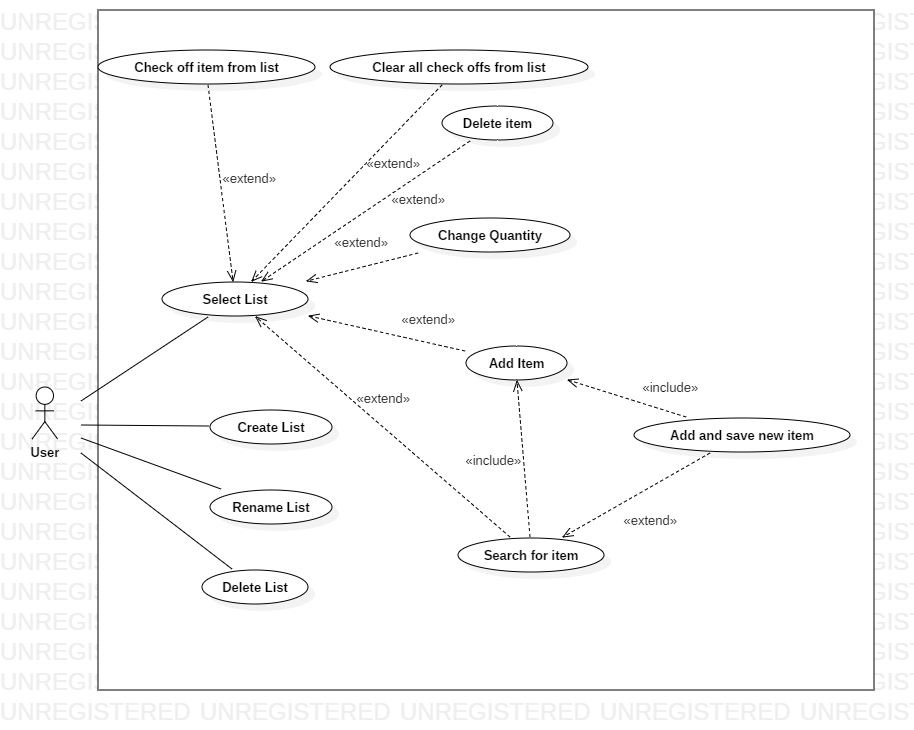
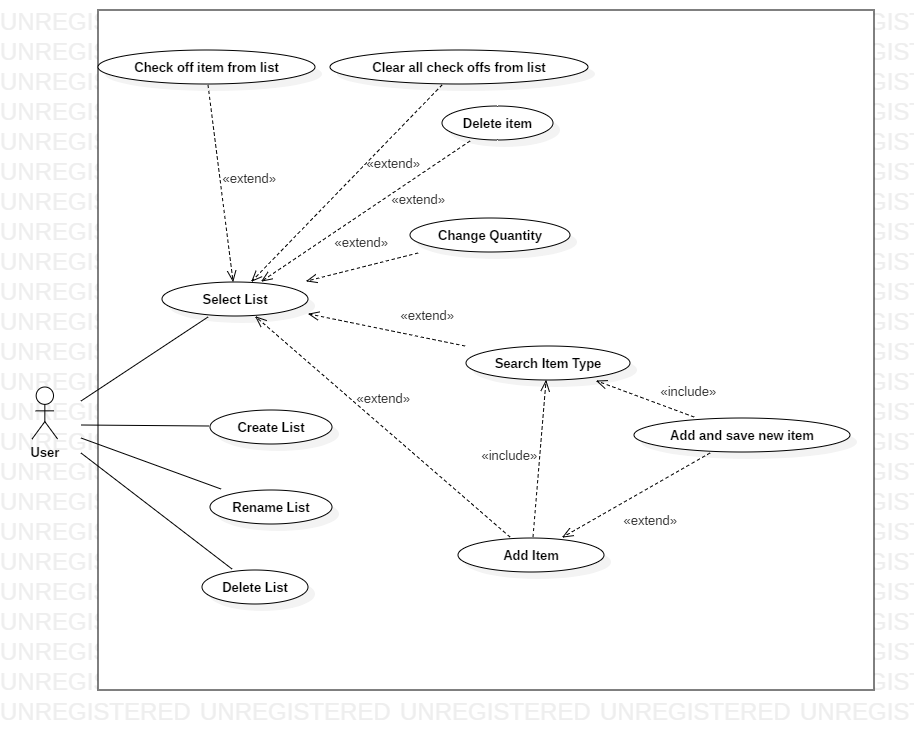
Updated documents

diff --git a/GroupProject/Docs/UseCaseModel.md b/GroupProject/Docs/UseCaseModel.md
@@ -24,9 +24,9 @@ Create List
 - Pre-conditions: n/a
 - Post-conditions: User has the option of using the newly created list. The newly created list will be saved.
 - Scenarios:
-	1. User selects option "Create New List".
+	1. User selects option "Add".
 	2. User enters a name for the list.
-	3. User clicks "Create List".
+	3. User clicks "ADD".
 	4. The system saves the list to the database.
 - Alternative Scenarios:
 	- 2a. User does not enter a name. The list is not created and a prompt appears to enter a name for the list.
@@ -39,30 +39,32 @@ Rename List
 - Pre-conditions: The list must already exist and should be found under "Select List".
 - Post-conditions: The list will be renamed and saved.
 - Scenarios:
-	1. User chooses option "Rename List"
-	2. The system opens a list of existing lists.
-	3. User selects a list.
+	1. User selects a list.
+	2. User chooses option "Rename".
+	3. The system opens a screen for the user to enter a new name for the list.
 	4. User enters a name for the list.
 	5. The system renames the list and saves the change.
 - Alternative Scenarios:
 	- 4a. User does not enter a name. The list's name is not changed and a prompt appears to enter a name for the list.
 - Exception:
-	- 2a. There are no existing lists. A warning appears saying there are no existing lists. The use case ends.
-	- 3a. User exits "Rename List". The use case ends.
+	- 2a. There are no existing lists or no list is selected. A prompt appears saying there are no lists selected. The use case ends.
+	- 2b. There are multiple lists selected. A prompt appears saying "Only one list can be selected for renaming". The use case ends.
+	- 4a. User exits "Rename List". The use case ends.
 
 Delete List
 
-- Requirements: User can delete an existing list.
-- Pre-conditions: The list must already exist and be saved.
-- Post-conditions: The list is removed from the database.
+- Requirements: User can delete existing list(s).
+- Pre-conditions: The list(s) must already exist and be saved.
+- Post-conditions: The list(s) are removed from the database.
 - Scenarios:
-	1. User chooses option "Delete List"
-	2. The system opens a list of existing lists.
-	3. User selects a list.
-	4. The system removes the selected list.
+	1. User selects list(s).
+	2. User chooses option "Delete"
+	3. The system opens a prompt for the user to confirm the deletion.
+	4. The user selects "Yes".
+	5. The system removes the selected list(s).
 - Exception:
-	- 2a. There are no existing lists. A warning appears saying there are no existing lists. The use case ends.
-	- 3a. User exits "Delete List". The use case ends.
+	- 2a. There are no existing lists or no list(s) are selected. A prompt appears saying "Select one or more lists for deletion". The use case ends.
+	- 4a. User selects "No". The list(s) are not deleted. The use case ends.
 
 Check off item from list
 
@@ -76,10 +78,10 @@ Check off item from list
 Clear all check offs from list
 
 - Requirements: User can clear all checks from a list(unchecked).
-- Pre-conditions: The list is selected. The list has at least one item checked off.
+- Pre-conditions: The list is selected. The list has all items checked off.
 - Post-conditions: The list has no checked off items.
 - Scenarios:
-	1. User chooses option "Clear all check offs from list".
+	1. User checks the topmost checkbox.
 	2. The system resets the checks for all items on the list.
 - Alternative Scenarios:
 	- 2a. There are no items on the list.
@@ -87,31 +89,35 @@ Clear all check offs from list
 
 Delete item
 
-- Requirements: User removes an item from a list.
-- Pre-conditions: User has selected a list. The list has the selected item.
-- Post-conditions: The list will no longer have the item.
+- Requirements: User removes item(s) from a list.
+- Pre-conditions: User has selected a list. The list has the selected item(s).
+- Post-conditions: The list will no longer have the item(s).
 - Scenarios:
-	1. User chooses "Delete item" for an item on a list.
-	2. The system removes the item from the list and saves the change.
+	1. User checks off item(s) on the list.
+	1. User chooses "Delete".
+	2. The system removes the item(s) from the list and saves the change.
 
-Add item
+Search Item Type
 
 - Requirements: User adds an item to the list.
-- Pre-conditions: The item added was not previously there.
+- Pre-conditions: The user has selected a grocery list.
 - Post-conditions: The item and quantity are added to the list.
 - Scenarios:
-	1. User chooses option "Add item".
-	2. The system presents a list of items in the database by itemtype.
-	3. User selects an item from the list to add.
-	4. The system prompts the user for a quantity.
-	5. User enters a valid quantity.
-	6. The system saves the item and quantity to the list.
+	1. User chooses option "Search Item Type".
+	2. The system presents a list of Item Types.
+	3. User selects an item type from the list.
+	4. The system presents a list of items with the given item type.
+	5. The user selects an item from the list.
+	6. The system prompts the user for a quantity.
+	7. User enters a valid quantity.
+	8. The system saves the item and quantity to the list.
 - Alternative Scenario:
-	- 3a. The item already exists in the list. The system prompts the user to select a new item.
-	- 5a. User enters an invalid quantity. The system prompts the user to enter a valid quantity.
+	- 7a. The item already exists in the list. The system adds the entered quantity to the quantity of the item in the list.
+	- 7b. User enters an invalid quantity. The system prompts the user to enter a valid quantity.
 - Exception:
-	- 3b. User exits "Add Item". The use case ends.
-	- 5b. User exits "Add Item". The selected item is not added to the list. The use case ends.
+	- 3b. User exits "Search Item Type". The use case ends.
+	- 5b. User exits "Search Item Type". The use case ends.
+	- 7b. User exits "Search Item Type". The selected item is not added to the list. The use case ends.
 
 Change Quantity
 
@@ -119,27 +125,28 @@ Change Quantity
 - Pre-conditions: User has selected a list. Item must exist in the list.
 - Post-conditions: The list item will be updated with its quantity and saved.
 - Scenarios:
-	1. User selects "Change Quantity" for an item on the list.
+	1. User selects an item on the list.
 	2. The system prompts the user for a quantity.
 	3. User enters a valid quantity.
-	4. The system changes the quantity for the list item and saves the change.
+	4. The system changes the quantity for the item on the list and saves the change.
 - Alternative Scenario:
 	- 3a. User enters an invalid quantity. The system prompts the user to enter a valid quantity.
 - Exception:
 	- 3b. User exits "Change Quantity". The quantity is unchanged. The use case ends.
 
-Search for Item
+Add Item
 
 - Requirements: User searches for an item to add to list.
-- Pre-conditions: Item does not exist in the current list.
+- Pre-conditions: User has selected a list.
 - Post-conditions: A new item is added to the list with its quantity specified and saved.
 - Scenarios:
-	1. User chooses option "Search for item".
+	1. User chooses option "Add Item".
 	2. User inputs a valid value to search.
-	3. The system searches the existing database of items to match the search term and item names .
+	3. The system searches the existing database of items to match the search term to item names .
 	4. The system presents a list of items with matching names. (Partial and full)
 	5. User selects an item from the given list to add.
-	6. See (Add Item).
+	6. User inputs a quantity for the item.
+	7. The system saves the item and quantity to the list and saves the change.
 - Alternative Scenario:
 	- 2a. User enters an invalid term. The system prompts the user to enter a valid term.
 	- 4a. The system does not find any matching items. The system prompts the user to add a new item to the database. See (Add and save new item).
@@ -154,12 +161,11 @@ Add and save new item
 - Post-conditions: The item is added to the database. The item with its quantity is added to the list and saved.
 - Scenarios:
 	1. The system prompts the user to add a new item to the database.
-	2. User selects an existing item type and enters a valid item name.
+	2. User selects an existing item type, enters a valid item name, and enters a valid quantity.
 	3. The system adds the item with its item type to the database.
-	4. The system prompts the user to add the item to the list. (Add item)
-	5. See (Add item) Steps 4-6.
+	4. The system adds the item to the list with the given quantity.
 - Alternative Scenarios:
 	- 2a. User enters an invalid item name. The system prompts the user to enter a valid item name.
+	- 2b. User enters an invalid quantity. The system prompts the user to enter a valid quantity.
 - Exception:
 	- 2b. User exits "Add and save new item". The item is not added to the database and list. The use case ends.
-	- 5a. User exits "Add and save new item". The item is added to the database. The item is not added to the list. The use case ends.

diff --git a/GroupProject/Docs/UserManual.md b/GroupProject/Docs/UserManual.md
@@ -1,0 +1,133 @@
+## User Manual
+---
+**Author**: Team 4
+
+**Version**: 1.5
+
+### Table of Contents
+---
+1.0 General Information
+
+1.1 System overview
+
+1.2 System Information
+
+1.3 System Configuration
+
+2.0 Getting Started
+
+2.1 Installation
+
+2.2 List Manager
+
+2.2.1 Add List
+
+2.2.2 Rename List
+
+2.2.3 Delete List
+
+2.2.4 Select List
+
+2.3 Grocery List
+
+2.3.1 Search Item Type
+
+2.3.2 Add Item
+
+2.3.3 Add New Item to List
+
+2.3.4 Delete
+
+
+#### 1.0 General Information
+---
+The app Grocery List Manager can be used to manage grocery lists for users.
+
+#### 1.1 System overview
+---
+In Grocery List Manager, users can create and manage multiple grocery lists and add items to grocery lists from a database of items. Items can be checked and new items can be added to the database.
+
+#### 1.2 System Information
+---
+
+#### 1.3 System Configuration
+---
+Grocery List Manager is an app for android mobile devices with Android 4.0, API level 21 and higher. No configuration is needed after installation.
+
+#### 2.0 Getting Started
+---
+This section will explain how to get the Grocery List Manager app and the basic functions supported by the app.
+
+#### 2.1 Installation
+---
+The app can be installed using the APK available or directly installed onto a device.
+
+#### 2.2 List Manager
+---
+On starting the app, the user can manage available lists. On the left, there are checkboxes for the user to choose lists for "Delete List" and "Rename List". The topmost checkbox can be clicked to check off all lists or remove all checks if all lists are checked. On the top right, there is a menu with three options: "Add List", "Delete List", and "Rename List". The user can click an available list to manage the items in the grocery list.
+
+#### 2.2.1 Add List
+---
+- The user can use this option to create a new Grocery List.
+- On clicking this option, the user will be brought to a screen where they can enter the name for the list to be created into a text input box.
+- The "ADD" button is clicked to create the new list with the given name.
+- If the user wishes to cancel "Add List", the user can click the arrow on the top left to return to "List Manager".
+
+#### 2.2.2 Rename List
+---
+- The user can use this option to rename a list that has been checked off.
+- Only 1 list may be selected to be renamed at a time.
+- On clicking this option, the user will be brought to a screen where they can enter the name for the list to be renamed into a text input box.
+- The "RENAME" button is clicked to rename the list with the given name.
+- If the user wishes to cancel "Rename List", the user can click the arrow on the top left to return to "List Manager".
+
+#### 2.2.3 Delete List
+---
+- The user can use this option to delete lists that have been checked off.
+- Multiple lists may be selected to be deleted at a time.
+- On clicking this option, a prompt will appear for the user to confirm the deletion of the selected list(s).
+- If the "YES" button is clicked, the lists checked off will be deleted, and if "NO" is clicked, the "Delete List" operation will be cancelled.
+- The user will be brought back to "List Manager" after "Delete List" is completed or cancelled.
+
+#### 2.2.4 Select List
+---
+- The user can select a grocery list to manage the items in the grocery list.
+- On clicking the name of a grocery list, the user will be brought to a screen to manage the grocery list clicked on.
+
+#### 2.3 Grocery List
+---
+In the grocery list, the user can manage the items on the grocery list. On the left, there are checkboxes for the user to choose item(s) for "Delete". The topmost checkbox can be clicked to check off all items or uncheck all items if they are all checked. On the top right, there is a menu with three options "Search Item Type", "Add Item", and "Delete". If the user wishes to return to "Grocery List Manager", the arrow on the top left will send them back.
+
+#### 2.3.1 Search Item Type
+---
+- The user can use this option to search for an item to add to a list by available item types.
+- On clicking this option, the user will be brought to a screen with available item types.
+- The user can click on an item type to view the available items with that item type.
+- On clicking an item, the user will be brought to a screen to enter the quantity for the item they wish to add to the list.
+- The "ADD" button can be clicked to add the item to the list with the given quantity.
+- If the user wishes to cancel "Search Item Type", the user can click the arrow on the top left until they return to the grocery list.
+
+#### 2.3.2 Add Item
+---
+- The user can use this option to search for an item to add to the list by name. If the item with the name entered is not found, the user can save the item to the database while adding the item to the grocery list.
+- On clicking this option, the user will be brought to a screen where they can enter the name of the item they are searching for on the top of the screen. As the name is typed, available items with similar names will show up beneath the text input and can be selected.
+- On the bottom of the screen, the user can enter the quantity for the item to be added to the list with.
+- The "ADD" button can be clicked to enter the item with the entered quantity if the item exists in the database. If the item is not in the database, the user will be brought to another screen to add the item with the entered name to their grocery list and save the item into the database. If the item is already on the grocery list, the quantity will be added to the quantity for the item already on the grocery list
+- If the user wishes to cancel "Add Item", the user can click the arrow on the top left to return to their grocery list.
+
+#### 2.3.3 Add New Item to List
+---
+- The user can use this to add a new item to the grocery list and save the item to the database for future use.
+- On the top of the screen, the user can edit the name for the item to be added.
+- On the bottom of the screen, the user can input the quantity for the item to be added to the grocery list with.
+- The "ADD" button can be clicked to add the item with the given quantity to their grocery list and save the item to the database.
+- If the user wishes to cancel "Add New Item to List", they can click the arrow on the top left to return to "Add Item".
+
+#### 2.3.4 Delete
+---
+- The user can use this option to delete items from the list that are checked.
+- Multiple items can be deleted at a time.
+- On clicking this option with items checked, a prompt will appear for the user to confirm deletion of the items checked.
+deletion of the selected list(s).
+- If the "YES" button is clicked, the item(s) checked off will be deleted, and if "NO" is clicked, the "Delete" operation will be cancelled.
+- The user will be brought back to the grocery list after "Delete" is completed or cancelled.
